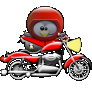
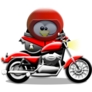
backport from trunk rev 324, 325, 326, 327 and 329 which update bitmaps and fix a small bug with small screens

diff --git a/extensions/listAvailableElements.py b/extensions/listAvailableElements.py
@@ -106,6 +106,7 @@ textures={
 'lightgrey': {'file': 'lightgrey_293.png'},
 'loupechene': {'file': 'loupechene_277.jpg'},
 'mediumgrey': {'file': 'mediumgrey_294.png'},
+'metal_grid': {'file': 'metal_grid_688.png'},
 'moresand': {'file': 'moresand_484.png'},
 'moresand2': {'file': 'moresand2_485.png'},
 'mud': {'file': 'mud_497.jpg'},
@@ -146,6 +147,7 @@ edgeTextures={
 'darken': {'file': 'darken_288.png'},
 'dirt_fx': {'file': 'dirt_fx_471.png'},
 'lighten': {'file': 'lighten_369.png'},
+'rusty': {'file': 'rusty_687.png'},
 'stone_fx': {'file': 'stone_fx_483.png'},
 'street': {'file': 'street_245.png'},
 'street2': {'file': 'street2_404.png'}}
@@ -232,6 +234,7 @@ sprites={
 rversions=['0.2.0','0.2.1','0.2.2','0.2.3','0.2.4','0.2.5','0.2.6','0.2.7','0.3.0','0.3.1','0.3.2','0.3.3','0.3.4','0.4.0','0.4.1','0.4.2','0.5.0']
 musics=['menu1','rideALong','batcave','blockolando','madeirastew','SpeedItUp']
 functions2versions={
+'0.4.1': (0, 0, 0),
 'KillPlayer': (0, 2, 1),
 'SetDynamicEntitySelfRotation': (0, 2, 0),
 'WinPlayer': (0, 2, 1),
@@ -277,6 +280,7 @@ functions2versions={
 'SetAPlayerPosition': (0, 3, 0),
 'OnWheel1Touchs': (0, 2, 1)}
 params2versions={
+('0.4.1', '0.4.1'): (0, 0, 0),
 ('position', 'reversed'): (0, 2, 5),
 ('edges', 'drawmethod'): (0, 5, 0),
 ('collision', 'type'): (0, 5, 0),

diff --git a/extensions/xmotoExtensionTkinter.py b/extensions/xmotoExtensionTkinter.py
@@ -235,12 +235,14 @@ class XmotoBitmap(XmotoWidget):
         self.label = Tkinter.Label(self.frame, text=label)
         self.label.pack()
 
+        self.size = size
+
     def get(self):
         # ugly as fuck... but tkinter keeps the text there...
         return self.label.config()['text'][4]
 
     def update(self, imgName, bitmapDict):
-        tkImage = self.getImage(imgName, bitmapDict)
+        tkImage = self.getImage(imgName, bitmapDict, self.size)
 
         if tkImage is not None:
             self.widget.tkImage = tkImage
